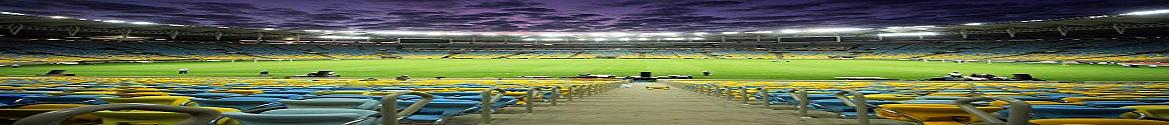
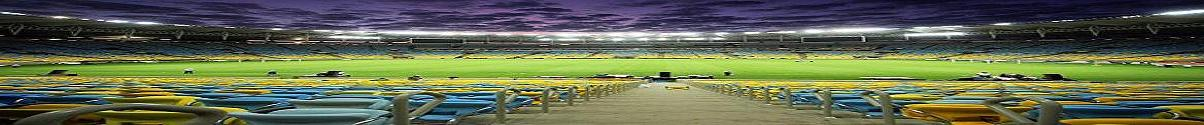
'minor_format'

diff --git a/views/default/user_admin_leagues_all_users.html b/views/default/user_admin_leagues_all_users.html
@@ -27,29 +27,33 @@
 <form id="LeagueAddForm_{{=LeagueDetail['league_id']}}">
 
 <table style="border-collapse:collapse">
-<tr>
-<td style="border:none;outline:none;"> User First Name : </td>
-<td style="border:none;outline:none;"> 
+    <tr>
+        <td style="border:none;outline:none;"/>
 
-    <div class="user-editor" >
-    <div style="" id="LeagueUserAddSpan_{{=LeagueDetail['league_id']}}">
-    </div>
-    </div>
-    <input value="" type="text" id="LeagueUserAddInput_{{=LeagueDetail['league_id']}}"/> 
-    
-    
-    <input value="" type="hidden" id="LeagueUserAddInputIdHidden"/>
-</td>
-<td style="border:none;outline:none;"> <input type="button" value="Add" id="LeagueUserAddButton_{{=LeagueDetail['league_id']}}"> </td>
-</tr>
-<tr>
-<td style="border:none;outline:none;"/>
-<td style="border:none;outline:none;">
+        <td style="border:none;outline:none;"> 
 
-<div style="position: absolute;" id="UserSearchUpdateId_{{=LeagueDetail['league_id']}}" class="UserSearchUpdateClass"></div>
+            <div class="user-editor" >
+            <div style="" id="LeagueUserAddSpan_{{=LeagueDetail['league_id']}}">
+            </div>
+            </div>
+        </td>
 
-</td>
-</tr>
+        <td> <input type="button" value="Add" id="LeagueUserAddButton_{{=LeagueDetail['league_id']}}"> </td>
+    </tr>
+    <tr>
+        <td style="border:none;outline:none;"> User Name : </td>
+        <td> 
+            <input value="" type="text" id="LeagueUserAddInput_{{=LeagueDetail['league_id']}}"/> 
+
+        </td>
+        
+    </tr>
+    <tr>
+        <td style="border:none;outline:none;"/>
+        <td style="border:none;outline:none;">
+            <div style="position: absolute;" id="UserSearchUpdateId_{{=LeagueDetail['league_id']}}" class="UserSearchUpdateClass"></div>
+        </td>
+    </tr>
 </table>
 <script>
             $('#LeagueAddForm_{{=LeagueDetail['league_id']}}').ready(function() {
@@ -73,7 +77,6 @@
                     return false;
                 });
                 $("#LeagueUserAddInput_{{=LeagueDetail['league_id']}}").keyup(function (e){
-                    $('#LeagueUserAddInputIdHidden').val('');
                     $.ajax({  type: "POST",  
                         url: '{{=URL('name_suggestions')}}',  
                         data: { LeagueId: {{=LeagueDetail['league_id']}}, LeagueUserAddInput: $('#LeagueUserAddInput_{{=LeagueDetail['league_id']}}').val() }})
@@ -95,14 +98,7 @@
                         }); 
                     
                 });
-                $("#LeagueUserAddInput_{{=LeagueDetail['league_id']}}").focusout(function (e){
-                    /*alert(e.currentTarget.nodeName);
-                    if($('div:focus') != $('#UserSearchUpdateId_{{=LeagueDetail['league_id']}}') && $('#LeagueUserAddInputIdHidden').val() == '')
-                    {
-                        $('#UserSearchUpdateId_{{=LeagueDetail['league_id']}}').hide();
-                        $('#LeagueUserAddInput_{{=LeagueDetail['league_id']}}').val('');
-                    }*/
-                });
+                
             });
 
 </script>

diff --git a/views/layout.html b/views/layout.html
@@ -93,14 +93,14 @@
       </div>
     </div>
   </div><!--/top navbar -->
-  <div class="container">
-   {{=IMG(_src=URL('static/images', 'stadium.jpg'),_alt='2014 Fifa World Cup')}}
+  <div class="container" id = "HeaderContainer">
+   {{=IMG(_src=URL('static/images', 'stadium.jpg'),_alt='2014 Fifa World Cup', _style='margin-left: -15px;')}}
   </div>
   <div class="container" >
     <!-- Masthead ================================================== -->
     <header class="mastheader row" id="header">
       {{if response.title:}}
-        <div class="span12">
+        <div class="span12" style="margin-left: 0px; width: 1200px;">
             <div class="page-header">
                 <h2>
                     {{=response.title}}

diff --git a/static/css/web2py.css b/static/css/web2py.css
@@ -340,7 +340,10 @@ li.w2p_grid_breadcrumb_elem {
 		border: 1px solid #ccc; 
 		text-align: center; 
         font-weight: bold; 
-        color: rgb(81, 92, 70);
+        color: rgb(42, 48, 37);
+        background-clip: padding-box;
+        border-radius: 5px;
+        background-color: #C3CE9A;
 	}
     
 table.mail_table { 
@@ -381,6 +384,7 @@ img.profile_image {
 
 .user-editor {
     background-color: #FFFFFF;
+    height: 30px;
     border: 1px solid #999999;
     cursor: text;
     overflow: hidden;
@@ -414,6 +418,9 @@ img.profile_image {
     
 }
 
+#HeaderContainer {
+width: 1200px;
+}
 
 
 /* fix some IE problems */

diff --git a/models/fulecci_utilities.py b/models/fulecci_utilities.py
@@ -528,10 +528,16 @@ def GetAllLeagues():
 
 def JoinLeague(aLeagueId_in):
     
-    db.league_member.insert(league_id = aLeagueId_in, member_id = auth.user.id, membership_state = 'pending')   
-    aLeagueDetails = db(db.league.id == aLeagueId_in).select()[0]
-    db.notification.insert(source_id = auth.user.id, traget_id = aLeagueDetails.owner_id, date_time = datetime.datetime.now(),
-                            subject = 'I want to join your league', notification_body = 'Please approve', read_state = 'unopened')   
+    aMessage = "A request is posted to the league admin..."
+    aMembership = db((db.league_member.member_id == auth.user.id) & (db.league_member.league_id == aLeagueId_in)).select()
+    if len(aMembership) == 0:
+        db.league_member.insert(league_id = aLeagueId_in, member_id = auth.user.id, membership_state = 'pending')   
+        aLeagueDetails = db(db.league.id == aLeagueId_in).select()[0]
+        db.notification.insert(source_id = auth.user.id, traget_id = aLeagueDetails.owner_id, date_time = datetime.datetime.now(),
+                                subject = 'I want to join your league', notification_body = 'Please approve', read_state = 'unopened')
+    else:
+        aMessage = "You are already member of the league"
+    return aMessage
 
 def LeaveLeague(aLeagueMemberId_in):
     

diff --git a/controllers/default.py b/controllers/default.py
@@ -259,8 +259,8 @@ def get_users_leagues():
 @auth.requires_login()    
 def join_league():
     logger.info("[%s] : The person %s joined the league", auth.user.id, str(request.vars.Id))
-    JoinLeague(request.vars.Id)
-    response.flash = T("A request is posted to the league admin...")
+    aMessage = JoinLeague(request.vars.Id)
+    response.flash = aMessage
     return get_all_leagues()
   
 @auth.requires_login()    
